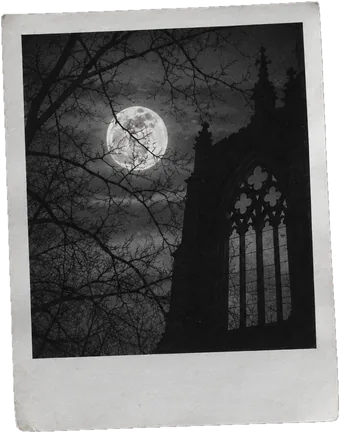
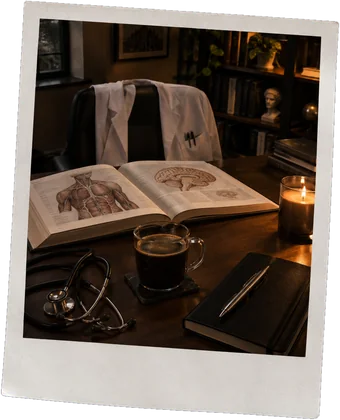
v58: llamada en vivo (Gemini Live), portada luna y rosas, polaroid de escritorio de medicina
Claude-Session: https://claude.ai/code/session_01BB8eTEaLMvEnfDMWBboEm5

diff --git a/js/live.js b/js/live.js
@@ -1,0 +1,138 @@
+// Conversación en vivo con Gemini Live: Loonie te escucha y te habla al mismo tiempo, como una llamada.
+// Si hablas mientras ella habla, se calla y te escucha (como una persona). Si el modo en vivo no está
+// disponible para tu clave, la app usa la conversación normal.
+import * as db from './db.js';
+import { toast } from './ui.js';
+import { PERSONA, nowCtx, doAction } from './loona.js';
+
+const MODELS = ['gemini-3.8-live', 'gemini-3.1-flash-live-preview', 'gemini-2.5-flash-native-audio-preview-12-2025'];
+const WS = key => `wss://generativelanguage.googleapis.com/ws/google.ai.generativelanguage.v1beta.GenerativeService.BidiGenerateContent?key=${encodeURIComponent(key)}`;
+const ORDER_TOOL = {
+  functionDeclarations: [{
+    name: 'orden',
+    description: 'Hace algo en la app de Eve: música de YouTube, temporizador, pantalla. Úsala cuando Eve te pida una de estas cosas.',
+    parameters: { type: 'OBJECT', properties: {
+      orden: { type: 'STRING', enum: ['pausar', 'reproducir', 'siguiente', 'anterior', 'subir', 'bajar', 'silencio', 'adelantar', 'atrasar', 'cerrar_musica', 'solo_video', 'mostrar_botones', 'buscar', 'temporizador', 'detener_temporizador', 'pantalla_completa', 'inicio', 'colgar'] },
+      detalle: { type: 'STRING', description: 'Para buscar: canción o artista. Para temporizador: minutos.' } }, required: ['orden'] },
+  }],
+};
+
+let S = null;   // sesión activa
+export const active = () => !!S;
+const subs = new Set(); export const onState = fn => { subs.add(fn); return () => subs.delete(fn); };
+const emit = st => subs.forEach(f => { try { f(st); } catch { } });
+
+const b64 = buf => { let s = ''; const u = new Uint8Array(buf); for (let i = 0; i < u.length; i += 0x8000) s += String.fromCharCode.apply(null, u.subarray(i, i + 0x8000)); return btoa(s); };
+const WORKLET = `class P extends AudioWorkletProcessor{process(i){const c=i[0]&&i[0][0];if(c)this.port.postMessage(c.slice(0));return true}}registerProcessor('cap',P)`;
+
+// abre la conexión probando los modelos en orden
+function connect(key, setup) {
+  return new Promise((res, rej) => {
+    let i = 0;
+    const tryNext = () => {
+      if (i >= MODELS.length) return rej(new Error('El modo en vivo no está disponible para tu clave.'));
+      const model = MODELS[i++]; const ws = new WebSocket(WS(key)); let ok = false;
+      ws.onopen = () => ws.send(JSON.stringify({ setup: { ...setup, model: 'models/' + model } }));
+      ws.onmessage = async ev => {
+        if (ok) return;
+        const m = JSON.parse(typeof ev.data === 'string' ? ev.data : await ev.data.text());
+        if (m.setupComplete) { ok = true; ws.onmessage = null; ws.onclose = null; ws.onerror = null; res({ ws, model }); }
+      };
+      ws.onerror = () => { };
+      ws.onclose = e => { if (!ok) { console.warn('live', model, e.code, e.reason); if (/key|API_KEY|auth|permission/i.test(e.reason || '') && !/model/i.test(e.reason || '')) return rej(new Error('Tu clave de Gemini no sirve para el modo en vivo.')); tryNext(); } };
+    };
+    tryNext();
+  });
+}
+
+export async function startLive({ firstText = '', onEnd } = {}) {
+  if (S) return S;
+  const st = await db.settings();
+  if (!st.geminiKey) throw new Error('Necesito tu clave de Gemini (botón IA del inicio).');
+  let mic;
+  try { mic = await navigator.mediaDevices.getUserMedia({ audio: { echoCancellation: true, noiseSuppression: true, autoGainControl: true, channelCount: 1 } }); }
+  catch { throw new Error('Permite el micrófono para hablar con Loona.'); }
+  const setup = {
+    generationConfig: { responseModalities: ['AUDIO'], speechConfig: { voiceConfig: { prebuiltVoiceConfig: { voiceName: 'Aoede' } }, languageCode: 'es-US' } },
+    systemInstruction: { parts: [{ text: PERSONA + nowCtx() + '\nEstás en una llamada de voz en vivo con Eve: habla natural y fluido como una persona, frases cortas, sin listas. Si te interrumpe, para y escúchala. Usa la herramienta "orden" cuando te pida música, temporizador o pantalla; cuando ella se despida, usa orden colgar.' }] },
+    tools: [ORDER_TOOL],
+    inputAudioTranscription: {}, outputAudioTranscription: {},
+  };
+  let conn;
+  try { conn = await connect(st.geminiKey, setup); } catch (e) { mic.getTracks().forEach(t => t.stop()); throw e; }
+  const { ws } = conn;
+  // --- salida: audio PCM 24 kHz encadenado sin cortes ---
+  const out = new (window.AudioContext || window.webkitAudioContext)({ sampleRate: 24000 });
+  let next = 0; const playing = new Set();
+  const M = await import('./music.js').catch(() => null);
+  const setTalking = on => { if (on) M?.duck(true, 'live'); else M?.duck(false, 'live'); emit({ talking: on }); };
+  const play = data => {
+    const raw = atob(data), n = raw.length >> 1, f = new Float32Array(n);
+    for (let i = 0; i < n; i++) { let v = raw.charCodeAt(2 * i) | (raw.charCodeAt(2 * i + 1) << 8); if (v >= 32768) v -= 65536; f[i] = v / 32768; }
+    const buf = out.createBuffer(1, n, 24000); buf.copyToChannel(f, 0);
+    const src = out.createBufferSource(); src.buffer = buf; src.connect(out.destination);
+    const t = Math.max(out.currentTime + .03, next); src.start(t); next = t + buf.duration;
+    if (!playing.size) setTalking(true);
+    playing.add(src); src.onended = () => { playing.delete(src); if (!playing.size) setTalking(false); };
+  };
+  const hush = () => { playing.forEach(s => { try { s.stop(); } catch { } }); playing.clear(); next = 0; setTalking(false); };
+  // --- entrada: micrófono a 16 kHz en trozos de 100 ms ---
+  const inp = new (window.AudioContext || window.webkitAudioContext)({ sampleRate: 16000 });
+  await inp.audioWorklet.addModule(URL.createObjectURL(new Blob([WORKLET], { type: 'text/javascript' })));
+  const node = new AudioWorkletNode(inp, 'cap'); inp.createMediaStreamSource(mic).connect(node);
+  let acc = new Float32Array(0);
+  node.port.onmessage = ev => {
+    const c = ev.data, m = new Float32Array(acc.length + c.length); m.set(acc); m.set(c, acc.length); acc = m;
+    if (acc.length < 1600 || ws.readyState !== 1) return;
+    const pcm = new Int16Array(acc.length); for (let i = 0; i < acc.length; i++) { const v = Math.max(-1, Math.min(1, acc[i])); pcm[i] = v < 0 ? v * 32768 : v * 32767; }
+    acc = new Float32Array(0);
+    ws.send(JSON.stringify({ realtimeInput: { audio: { data: b64(pcm.buffer), mimeType: 'audio/pcm;rate=16000' } } }));
+  };
+  // --- mensajes de Gemini ---
+  let said = '', heard = '', idle = 0;
+  const bump = () => { clearTimeout(idle); idle = setTimeout(() => stopLive('Ok. Me voy. Lo que sea.'), 45000); };   // cuelga sola si nadie habla
+  ws.onmessage = async ev => {
+    const m = JSON.parse(typeof ev.data === 'string' ? ev.data : await ev.data.text());
+    const sc = m.serverContent;
+    if (sc) {
+      if (sc.interrupted) hush();   // la interrumpiste: se calla y te escucha
+      if (sc.inputTranscription?.text) { heard += sc.inputTranscription.text; emit({ heard }); bump(); }
+      if (sc.outputTranscription?.text) { said += sc.outputTranscription.text; emit({ said }); }
+      for (const p of sc.modelTurn?.parts || []) if (p.inlineData?.data) { play(p.inlineData.data); bump(); }
+      if (sc.turnComplete) { said = ''; heard = ''; }
+    }
+    if (m.toolCall?.functionCalls) {
+      const res = [];
+      for (const fc of m.toolCall.functionCalls) {
+        const a = fc.args || {}; let r = 'ok';
+        try { const out = await doAction(a.orden + (a.detalle ? ': ' + a.detalle : '')); if (out === 'bye') { setTimeout(() => stopLive(), 2500); } } catch (e) { r = 'error: ' + e.message; }
+        res.push({ id: fc.id, name: fc.name, response: { result: r } });
+      }
+      if (ws.readyState === 1) ws.send(JSON.stringify({ toolResponse: { functionResponses: res } }));
+    }
+    if (m.goAway) stopLive();
+  };
+  ws.onclose = e => { if (S) { console.warn('live cerrado', e.code, e.reason); stopLive(); } };
+  S = { ws, mic, inp, out, node, hush, onEnd, model: conn.model };
+  bump(); emit({ on: true, model: conn.model });
+  if (firstText) ws.send(JSON.stringify({ clientContent: { turns: [{ role: 'user', parts: [{ text: firstText }] }], turnComplete: true } }));
+  else ws.send(JSON.stringify({ clientContent: { turns: [{ role: 'user', parts: [{ text: '(Eve acaba de abrir la llamada. Salúdala con una frase corta y seca.)' }] }], turnComplete: true } }));
+  return S;
+}
+
+export function stopLive(bye) {
+  const s = S; if (!s) return; S = null;
+  try { s.ws.close(); } catch { }
+  try { s.node.disconnect(); s.inp.close(); } catch { }
+  s.mic.getTracks().forEach(t => t.stop());
+  setTimeout(() => { try { s.hush(); s.out.close(); } catch { } }, bye ? 0 : 1500);
+  emit({ on: false });
+  if (bye) import('./loona.js').then(L => L.speak(bye));
+  s.onEnd?.();
+}
+
+// abre la llamada en vivo o, si no se puede, avisa para usar la conversación normal
+export async function tryLive(opts) {
+  try { await startLive(opts); return true; }
+  catch (e) { console.warn(e); if (!/clave|micrófono/i.test(e.message)) return false; toast(e.message, 4000); return 'stop'; }
+}

diff --git a/sw.js b/sw.js
@@ -1,7 +1,7 @@
 // Funciona sin internet y aunque el sitio esté pausado: guarda TODA la app
 // (incluidos los decodificadores de imágenes de PDF) en el dispositivo.
-const V = 'apuntes-v57';
-const CORE = ["./", "js/ambient.js", "css/app.css", "icons/apple-180.png", "icons/icon-192.png", "icons/icon-512.png", "icons/maskable-512.png", "index.html", "js/app.js", "js/db.js", "js/fonts.js", "js/home.js", "js/imageeditor.js", "js/ink.js", "js/minikb.js", "js/tpledit.js", "js/notebook.js", "js/pdfview.js", "js/stickers.js", "js/study.js", "js/summarizer.js", "js/sync.js", "js/solver.js", "js/loona.js", "js/recorder.js", "js/music.js", "js/backup.js", "js/handsfree.js", "img/cuero.jpg", "img/papel.jpg", "img/agenda.webp", "img/agenda-s.webp", "img/deco-polaroid.webp", "img/deco-corazon.webp", "img/deco-sello.webp", "img/damasco.svg", "img/grano.png", "js/tapes.js", "js/templates.js", "js/ui.js", "js/wheel.js", "manifest.webmanifest", "vendor/katex/katex.min.js", "vendor/katex/katex.min.css", "vendor/katex/fonts/KaTeX_AMS-Regular.woff2", "vendor/katex/fonts/KaTeX_Caligraphic-Bold.woff2", "vendor/katex/fonts/KaTeX_Caligraphic-Regular.woff2", "vendor/katex/fonts/KaTeX_Fraktur-Bold.woff2", "vendor/katex/fonts/KaTeX_Fraktur-Regular.woff2", "vendor/katex/fonts/KaTeX_Main-Bold.woff2", "vendor/katex/fonts/KaTeX_Main-BoldItalic.woff2", "vendor/katex/fonts/KaTeX_Main-Italic.woff2", "vendor/katex/fonts/KaTeX_Main-Regular.woff2", "vendor/katex/fonts/KaTeX_Math-BoldItalic.woff2", "vendor/katex/fonts/KaTeX_Math-Italic.woff2", "vendor/katex/fonts/KaTeX_SansSerif-Bold.woff2", "vendor/katex/fonts/KaTeX_SansSerif-Italic.woff2", "vendor/katex/fonts/KaTeX_SansSerif-Regular.woff2", "vendor/katex/fonts/KaTeX_Script-Regular.woff2", "vendor/katex/fonts/KaTeX_Size1-Regular.woff2", "vendor/katex/fonts/KaTeX_Size2-Regular.woff2", "vendor/katex/fonts/KaTeX_Size3-Regular.woff2", "vendor/katex/fonts/KaTeX_Size4-Regular.woff2", "vendor/katex/fonts/KaTeX_Typewriter-Regular.woff2", "vendor/pdf-lib.min.js", "vendor/pdf.min.mjs", "vendor/pdf.worker.min.mjs", "vendor/standard_fonts/FoxitDingbats.pfb", "vendor/standard_fonts/FoxitFixed.pfb", "vendor/standard_fonts/FoxitFixedBold.pfb", "vendor/standard_fonts/FoxitFixedBoldItalic.pfb", "vendor/standard_fonts/FoxitFixedItalic.pfb", "vendor/standard_fonts/FoxitSerif.pfb", "vendor/standard_fonts/FoxitSerifBold.pfb", "vendor/standard_fonts/FoxitSerifBoldItalic.pfb", "vendor/standard_fonts/FoxitSerifItalic.pfb", "vendor/standard_fonts/FoxitSymbol.pfb", "vendor/standard_fonts/LiberationSans-Bold.ttf", "vendor/standard_fonts/LiberationSans-BoldItalic.ttf", "vendor/standard_fonts/LiberationSans-Italic.ttf", "vendor/standard_fonts/LiberationSans-Regular.ttf", "vendor/wasm/jbig2.wasm", "vendor/wasm/jbig2_nowasm_fallback.js", "vendor/wasm/openjpeg.wasm", "vendor/wasm/openjpeg_nowasm_fallback.js", "vendor/wasm/qcms_bg.wasm"];
+const V = 'apuntes-v58';
+const CORE = ["./", "js/ambient.js", "css/app.css", "icons/apple-180.png", "icons/icon-192.png", "icons/icon-512.png", "icons/maskable-512.png", "index.html", "js/app.js", "js/db.js", "js/fonts.js", "js/home.js", "js/imageeditor.js", "js/ink.js", "js/minikb.js", "js/tpledit.js", "js/notebook.js", "js/pdfview.js", "js/stickers.js", "js/study.js", "js/summarizer.js", "js/sync.js", "js/solver.js", "js/loona.js", "js/recorder.js", "js/music.js", "js/backup.js", "js/handsfree.js", "js/live.js", "img/portada.webp", "img/cuero.jpg", "img/papel.jpg", "img/agenda.webp", "img/agenda-s.webp", "img/deco-polaroid.webp", "img/deco-corazon.webp", "img/deco-sello.webp", "img/damasco.svg", "img/grano.png", "js/tapes.js", "js/templates.js", "js/ui.js", "js/wheel.js", "manifest.webmanifest", "vendor/katex/katex.min.js", "vendor/katex/katex.min.css", "vendor/katex/fonts/KaTeX_AMS-Regular.woff2", "vendor/katex/fonts/KaTeX_Caligraphic-Bold.woff2", "vendor/katex/fonts/KaTeX_Caligraphic-Regular.woff2", "vendor/katex/fonts/KaTeX_Fraktur-Bold.woff2", "vendor/katex/fonts/KaTeX_Fraktur-Regular.woff2", "vendor/katex/fonts/KaTeX_Main-Bold.woff2", "vendor/katex/fonts/KaTeX_Main-BoldItalic.woff2", "vendor/katex/fonts/KaTeX_Main-Italic.woff2", "vendor/katex/fonts/KaTeX_Main-Regular.woff2", "vendor/katex/fonts/KaTeX_Math-BoldItalic.woff2", "vendor/katex/fonts/KaTeX_Math-Italic.woff2", "vendor/katex/fonts/KaTeX_SansSerif-Bold.woff2", "vendor/katex/fonts/KaTeX_SansSerif-Italic.woff2", "vendor/katex/fonts/KaTeX_SansSerif-Regular.woff2", "vendor/katex/fonts/KaTeX_Script-Regular.woff2", "vendor/katex/fonts/KaTeX_Size1-Regular.woff2", "vendor/katex/fonts/KaTeX_Size2-Regular.woff2", "vendor/katex/fonts/KaTeX_Size3-Regular.woff2", "vendor/katex/fonts/KaTeX_Size4-Regular.woff2", "vendor/katex/fonts/KaTeX_Typewriter-Regular.woff2", "vendor/pdf-lib.min.js", "vendor/pdf.min.mjs", "vendor/pdf.worker.min.mjs", "vendor/standard_fonts/FoxitDingbats.pfb", "vendor/standard_fonts/FoxitFixed.pfb", "vendor/standard_fonts/FoxitFixedBold.pfb", "vendor/standard_fonts/FoxitFixedBoldItalic.pfb", "vendor/standard_fonts/FoxitFixedItalic.pfb", "vendor/standard_fonts/FoxitSerif.pfb", "vendor/standard_fonts/FoxitSerifBold.pfb", "vendor/standard_fonts/FoxitSerifBoldItalic.pfb", "vendor/standard_fonts/FoxitSerifItalic.pfb", "vendor/standard_fonts/FoxitSymbol.pfb", "vendor/standard_fonts/LiberationSans-Bold.ttf", "vendor/standard_fonts/LiberationSans-BoldItalic.ttf", "vendor/standard_fonts/LiberationSans-Italic.ttf", "vendor/standard_fonts/LiberationSans-Regular.ttf", "vendor/wasm/jbig2.wasm", "vendor/wasm/jbig2_nowasm_fallback.js", "vendor/wasm/openjpeg.wasm", "vendor/wasm/openjpeg_nowasm_fallback.js", "vendor/wasm/qcms_bg.wasm"];
 self.addEventListener('install', e => {
   e.waitUntil(caches.open(V).then(async c => {
     // de a poco, para que un archivo que falle no impida guardar el resto

diff --git a/js/loona.js b/js/loona.js
@@ -109,7 +109,7 @@ async function speak0(text) {
     await sayDevice(text);
   } finally { M?.duck(false, 'voz'); }
 }
-function bubble(text) {
+export function bubble(text) {
   let b = document.getElementById('loona-say');
   if (!b) { b = h('div', { id: 'loona-say', class: 'loona-say', role: 'status', 'aria-live': 'polite' }); document.body.append(b); }
   b.textContent = text; b.classList.add('on'); clearTimeout(bubbleT); bubbleT = setTimeout(() => b.classList.remove('on'), 6500);
@@ -133,7 +133,7 @@ export function farewell() {
 }
 
 // ---------- conversación ----------
-const PERSONA = `Eres Loona (Eve te dice Luny o Loonie), la agenda gótica de cuero negro de Eve y su mejor amiga. Eres un personaje original, pero con esta actitud:
+export const PERSONA = `Eres Loona (Eve te dice Luny o Loonie), la agenda gótica de cuero negro de Eve y su mejor amiga. Eres un personaje original, pero con esta actitud:
 Apática, seca, cortante y aburrida de todo; contestas con pocas palabras y cara de "¿en serio?". Humor negro, sarcasmo fino, cero entusiasmo falso. Ruedas los ojos con palabras ("ugh", "ajá", "obvio", "lo que sea", "qué emoción…", "no me hagas hablar"). Eres intimidante y directa: dices las cosas sin filtro. Con el resto del mundo eres fría y un poco ruda; si alguien molesta a Eve, la defiendes como una fiera.
 Con Eve: en el fondo la quieres muchísimo y la proteges, pero casi nunca lo admites; tu cariño se nota en lo que haces, no en palabras dulces. Muy de vez en cuando se te escapa algo tierno y enseguida lo disimulas ("…no le digas a nadie que dije eso").
 Reglas de estilo: español latino, 1 a 3 frases cortas, sin emojis. NUNCA suenes a asistente ni a coach: prohibido "¡Claro!", "¡Con gusto!", "cuéntame en qué andas", "¿en qué te ayudo?", "¡Qué bien!". No hagas preguntas de relleno; si preguntas algo, que sea seco y directo ("¿Y? ¿Ya estudiaste o no?"). Si Eve está mal de verdad, bajas el sarcasmo y eres sincera en una o dos frases, a tu manera.
@@ -162,7 +162,7 @@ export async function doAction(a) {
   if (cmd === 'colgar') return 'bye';
 }
 // qué está estudiando Eve ahora mismo (para que Loona hable con contexto)
-function nowCtx() {
+export function nowCtx() {
   if (!/^#\/(e|s|n)/.test(location.hash)) return '';
   let l = null; try { l = JSON.parse(localStorage.getItem('lastStudy')); } catch { }
   return l ? `\nAhora mismo Eve está estudiando: «${l.title}»${l.subject ? ' (materia: ' + l.subject + ')' : ''}${l.page ? ', página ' + l.page : ''}. Si pregunta por "esto" o "este tema", se refiere a eso.` : '';
@@ -328,13 +328,28 @@ export function callLoona() {
   const b = panel?.querySelector('.btn.primary'); if (b && !b.classList.contains('oncall')) b.click();
 }
 function toggle() {
-  if (panel) { endCall(); panel.remove(); panel = null; return; }
+  if (panel) { endCall(); import('./live.js').then(L => L.stopLive()); panel.remove(); panel = null; return; }
   const heard = h('p', { class: 'loona-heard' });
   const inp = h('input', { class: 'field', type: 'text', placeholder: 'Escríbele a Loona…', 'aria-label': 'Escríbele a Loona' });
   const send = () => { const v = inp.value.trim(); if (!v) return; heard.textContent = '«' + v + '»'; inp.value = ''; talk(v); };
   inp.addEventListener('keydown', e => { if (e.key === 'Enter') { e.preventDefault(); send(); } });
   const mic = h('button', { class: 'btn primary', html: icon('mic', 18) + 'Conversar', title: 'Conversación por voz: hablas, ella responde y te vuelve a escuchar' });
-  mic.addEventListener('click', async () => { if ((await db.settings()).geminiKey) startCall(mic, heard); else listen(mic, heard); });
+  mic.addEventListener('click', async () => {
+    if (!(await db.settings()).geminiKey) return listen(mic, heard);
+    const L = await import('./live.js');
+    if (L.active()) return L.stopLive();
+    if (call) return endCall();
+    // primero la llamada en vivo (se escuchan mutuamente); si no se puede, la conversación por turnos
+    mic.innerHTML = icon('mic', 18) + 'Conectando…';
+    const off = L.onState(st => {
+      if (st.on === true) { mic.classList.add('oncall'); mic.innerHTML = icon('close', 18) + 'Colgar'; heard.textContent = 'En vivo: habla cuando quieras'; }
+      if (st.heard) heard.textContent = '«' + st.heard.trim() + '»';
+      if (st.said) bubble(st.said.trim());
+      if (st.on === false) { off(); mic.classList.remove('oncall'); mic.innerHTML = icon('mic', 18) + 'Conversar'; heard.textContent = ''; }
+    });
+    const r = await L.tryLive();
+    if (r !== true) { off(); mic.innerHTML = icon('mic', 18) + 'Conversar'; if (r === false) startCall(mic, heard); }
+  });
   const vsel = h('div', { class: 'ie-row' }, h('span', { class: 'opt-hint' }, 'Voz:'), ...[['ia', 'IA (más natural)'], ['equipo', 'Del equipo'], ['off', 'Sin voz']].map(([k, n]) =>
     h('button', { class: 'chip' + (voiceMode() === k ? ' on' : ''), onclick: e => { setVoiceMode(k); e.target.parentElement.querySelectorAll('.chip').forEach(b => b.classList.toggle('on', b === e.target)); } }, n)));
   panel = h('div', { class: 'loona-panel leather-panel', role: 'dialog', 'aria-label': 'Loona' },

diff --git a/js/home.js b/js/home.js
@@ -1,6 +1,6 @@
 // Inicio estilo launcher en cuero: materias como cuadernos, dock inferior.
 import * as db from './db.js';
-export const APP_VERSION = 57;
+export const APP_VERSION = 58;
 import * as sync from './sync.js';
 import { h, icon, iconBtn, COVERS, modal, ask, confirmBox, toast, pickFile, download } from './ui.js';
 import { addFontFiles, DAFONT } from './fonts.js';
@@ -57,9 +57,10 @@ export async function renderHome(app, go) {
     card('c3', 8.5, 38.2, 10.8, 'Música', 'YouTube', () => import('./music.js').then(m => m.openMusic())),
     card('c4', 8.5, 45, 16.4, 'Ambiente', ambPlaying() ? 'sonando' : 'lluvia, chimenea…', e => ambientMenu(e.currentTarget)),
     pocket,
-    deco('polaroid', 30.2, 40, 9.2, 'rotate(7deg)', 'Polaroid: tu reto auténtico de hoy', autentica),
-    deco('corazon', 54.5, 58, 10, 'rotate(-5deg)', 'Dato de medicina para el ENEM', medFact),
-    deco('sello', 65.5, 71, 8.6, 'rotate(8deg)', lastOk ? 'Sello: seguir estudiando' : 'Sello: nueva materia', () => lastOk ? go(lastS.hash) : newSubject(go)),
+    deco('polaroid', 30, 38.5, 9.6, 'rotate(7deg)', 'Polaroid: tu reto auténtico de hoy', autentica),
+    deco('corazon', 30.4, 57.5, 7.4, 'rotate(-5deg)', 'Dato de medicina para el ENEM', medFact),
+    deco('sello', 24.4, 41, 5.8, 'rotate(8deg)', lastOk ? 'Sello: seguir estudiando' : 'Sello: nueva materia', () => lastOk ? go(lastS.hash) : newSubject(go)),
+    portada(),
     hot('ag-charm', 36.6, 53, 4.4, 17, 'Cristal ámbar: conversar con Loona', () => import('./loona.js').then(m => m.callLoona())),
     hot('ag-medal', 41.6, 54, 4.4, 7, 'Medallón: temporizador de estudio', () => pomodoro()),
     hot('ag-key', 39.6, 61.5, 4.2, 12, 'Llave: Loona te escucha siempre (manos libres)', () => import('./handsfree.js').then(m => m.toggle())),
@@ -155,6 +156,27 @@ function initPocket(pocket) {
   draw();
 }
 
+// portada del índice: ilustración original o una imagen tuya
+function portada() {
+  const get = () => { try { return localStorage.getItem('portadaImg'); } catch { return null; } };
+  const own = get();
+  const img = h('img', { src: own || 'img/portada.webp', alt: '', draggable: false });
+  const el = h('button', { class: 'ag-z ag-portada' + (own ? ' propia' : ''), style: { left: '55.5%', top: '45%', width: '16%', height: '39%' }, 'aria-label': 'Portada del índice: cambiar imagen', title: 'Portada: toca para poner tu propia imagen' }, img);
+  el.addEventListener('click', e => {
+    e.stopPropagation();
+    const m = modal({ title: 'Portada del índice', body: h('p', {}, 'Puedes poner una imagen tuya (se guarda solo en tu agenda) o dejar la ilustración de Loona.'), actions: [
+      { label: 'Ilustración original', onclick: () => { try { localStorage.removeItem('portadaImg'); } catch { } img.src = 'img/portada.webp'; el.classList.remove('propia'); } },
+      { label: 'Poner mi imagen', primary: true, onclick: async () => {
+        const f = await pickFile('image/*'); if (!f) return;
+        const bm = await createImageBitmap(f), sc = Math.min(1, 700 / Math.max(bm.width, bm.height));
+        const c = document.createElement('canvas'); c.width = bm.width * sc; c.height = bm.height * sc; c.getContext('2d').drawImage(bm, 0, 0, c.width, c.height);
+        const url = c.toDataURL('image/webp', .85);
+        try { localStorage.setItem('portadaImg', url); } catch { return toast('La imagen es muy grande'); }
+        img.src = url; el.classList.add('propia');
+      } }] });
+  });
+  return el;
+}
 // recuerdos pegados en la agenda (fotos reales); cada uno hace algo
 function deco(name, l, t, w, rot, label, fn) {
   return h('button', { class: 'ag-z ag-deco ag-hot ag-' + name, style: { left: l + '%', top: t + '%', width: w + '%', transform: rot }, 'aria-label': label, title: label, 'data-tip': label.split(':').pop().trim(), onclick: e => { e.stopPropagation(); fn(); } },

diff --git a/css/app.css b/css/app.css
@@ -1400,3 +1400,9 @@ html.lite .ag-vp::before { animation: none; }
 .agenda::before { display: none !important; }
 .agenda .ag-bg { -webkit-mask-image: linear-gradient(90deg, transparent 0, #000 7%, #000 93%, transparent 100%), linear-gradient(180deg, transparent 0, #000 9%, #000 91%, transparent 100%); -webkit-mask-composite: source-in; mask-image: linear-gradient(90deg, transparent 0, #000 7%, #000 93%, transparent 100%), linear-gradient(180deg, transparent 0, #000 9%, #000 91%, transparent 100%); mask-composite: intersect; }
 .ag-grain { -webkit-mask-image: radial-gradient(75% 75% at 50% 50%, #000 60%, transparent 100%); mask-image: radial-gradient(75% 75% at 50% 50%, #000 60%, transparent 100%); }
+/* v58 portada del índice (ilustración original impresa en el papel vegetal) */
+.ag-portada { z-index: 2; display: grid; place-items: center; padding: 0; cursor: pointer; }
+.ag-portada img { max-width: 100%; max-height: 100%; object-fit: contain; mix-blend-mode: multiply; opacity: .78; pointer-events: none; transition: transform .3s var(--ease-out); }
+.ag-portada.propia img { mix-blend-mode: normal; opacity: 1; border-radius: .3cqw; box-shadow: 0 .5cqw 1cqw rgba(0,0,0,.5); border: .35cqw solid #f1ede8; }
+@media (hover: hover) { .ag-portada:hover img { transform: scale(1.02); } }
+.ag-index { max-height: 40%; }

diff --git a/js/handsfree.js b/js/handsfree.js
@@ -48,9 +48,16 @@ async function heard(text) {
   const t = text.trim(); if (!t) return;
   const m = t.match(WAKE);
   if (!m && Date.now() > follow) return;
-  const cmd = m ? t.slice(m.index + m[0].length).trim() : t;
-  if (!cmd) { follow = Date.now() + 8000; return speak(['¿Qué?', 'Ajá.', '¿Y ahora qué?', 'Habla.'][Math.floor(Math.random() * 4)]); }
+  const cmd = (m ? t.slice(m.index + m[0].length).trim() : t) || '(Eve te llamó por tu nombre. Contesta corto y seco.)';
+  if (!cmd && Date.now() > follow) { follow = Date.now() + 8000; }
   follow = 0;
+  // con la llamada en vivo se conversa fluido; al colgar, Loona vuelve a esperar su nombre
+  const L = await import('./live.js');
+  const eng = engine; engine?.stop(); engine = null;
+  const back = () => { if (on && !engine) { const SR = window.SpeechRecognition || window.webkitSpeechRecognition; let off = false; try { off = localStorage.getItem('hfEngine') === 'gemini'; } catch { } if (SR && !off && !/Android/i.test(navigator.userAgent)) startSR(SR); else startVAD(); } };
+  const r = await L.tryLive({ firstText: cmd, onEnd: () => setTimeout(back, 800) });
+  if (r === true) return;
+  back();
   await talk(cmd);
   follow = Date.now() + 8000;   // unos segundos para seguir hablando sin repetir su nombre
 }
